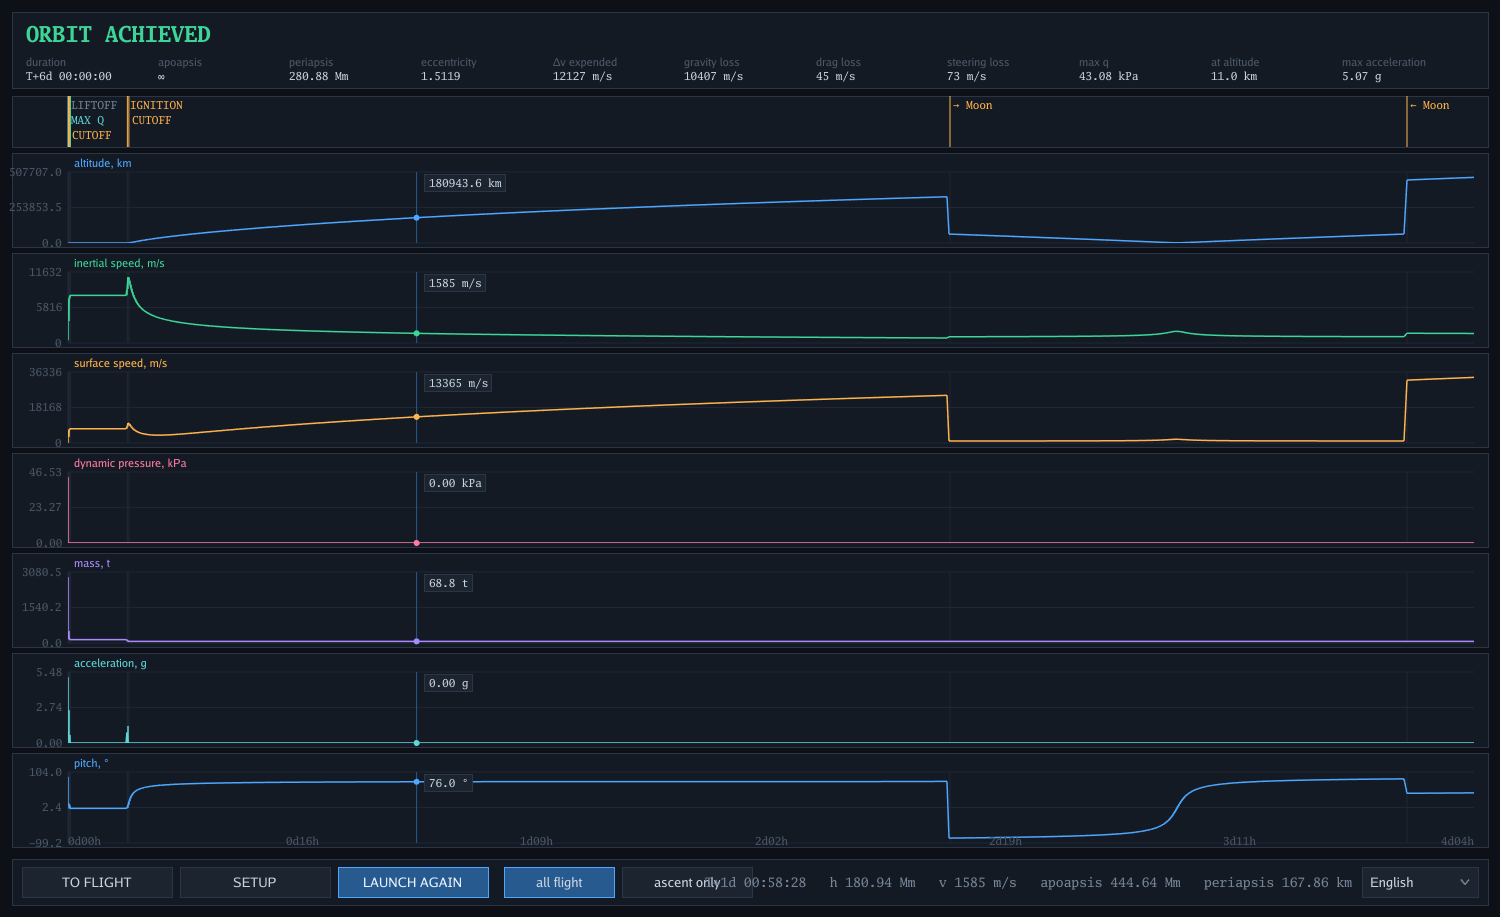
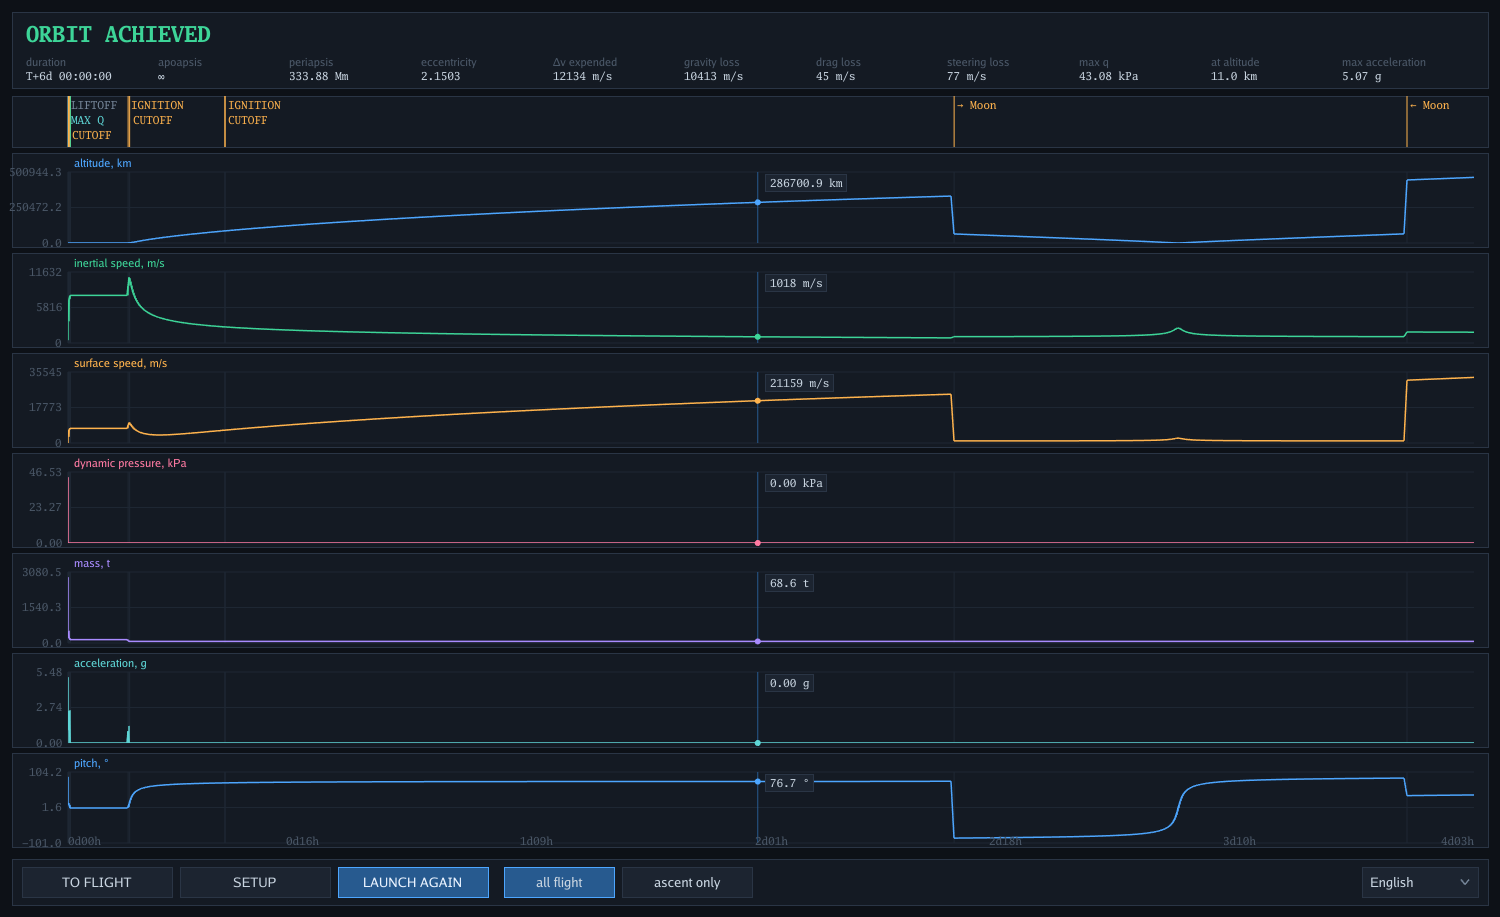
Refresh the README's screenshots, and stop the bars printing over themselves
The five images were from the first week of August and three of them show a
program that no longer exists: the mission list without the description
panel beside it and two rows short, and the flight screen with a plan that
has one burn in it and no way to add an aim. Regenerated: the list with a
mission open on it, max q on the Saturn V with both plan entries visible,
the flyby 200 km over the Moon with the periapsis reading 200.03 in the
panel, and the whole six days on the graph screen.

The captions were as stale as the pictures — "the flight plan holds one
burn" is no longer true of any preset that goes anywhere — so they say what
is in the frame now, including where the 200 km comes from.

And a layout fault the screenshots had been immortalising: both bottom bars
grow their buttons from the left and right-align their text against the
language picker, so at an ordinary window width the flight screen's key
hint printed straight through the GRAPHS button and the graph screen's
scrubber readout through "ascent only". Both now measure the gap and are
dropped when there is none, which is the right way round — a control that
has to be readable beats a hint that does not.

diff --git a/screen_graphs.go b/screen_graphs.go
@@ -525,6 +525,11 @@ func (g *GraphScreen) drawFooter(a *App, dst *ebiten.Image, r Rect) {
 
 	u.LangPicker(dst, Rect{r.Right() - 10 - langPickerW, by, langPickerW, bh})
 	infoRight := r.Right() - 20 - langPickerW
+	// Whatever is left between the last button and the language picker. Both of the things
+	// drawn here are right-aligned against the picker while the buttons grow from the left, so
+	// without this the scrubber's readout printed through the range buttons — which is what the
+	// screenshots of this screen had been showing.
+	room := infoRight - (r.X + 750)
 
 	if g.hover >= 0 && g.hover < len(g.s.Hist) {
 		sm := g.s.Hist[g.hover]
@@ -532,8 +537,10 @@ func (g *GraphScreen) drawFooter(a *App, dst *ebiten.Image, r Rect) {
 			fmtClock(sm.T), fmtEng(sm.Alt, T("unit.m")), speed(sm.Speed),
 			T("common.apoapsis"), altText(sm.ApoAlt),
 			T("common.periapsis"), altText(sm.PeriAlt))
-		drawText(dst, info, fontMono, infoRight, r.Y+(r.H-fontMono.Size)/2-1, colTextDim, alignRight)
-	} else {
+		if textWidth(info, fontMono) <= room {
+			drawText(dst, info, fontMono, infoRight, r.Y+(r.H-fontMono.Size)/2-1, colTextDim, alignRight)
+		}
+	} else if textWidth(T("graph.hint"), fontUISm) <= room {
 		drawText(dst, T("graph.hint"),
 			fontUISm, infoRight, r.Y+(r.H-fontUISm.Size)/2, colTextFaint, alignRight)
 	}

diff --git a/screen_flight.go b/screen_flight.go
@@ -1794,11 +1794,19 @@ func (f *FlightScreen) drawControls(a *App, dst *ebiten.Image, r Rect) {
 
 	u.LangPicker(dst, Rect{r.Right() - 10 - langPickerW, by, langPickerW, bh})
 
+	// The keyboard hint, in whatever room is left over — and dropped entirely when there is
+	// none. It is right-aligned against the language picker while the buttons grow from the
+	// left, so at a window width the two meet the hint used to print straight through the last
+	// button, which is how every screenshot of this bar came out. A hint nobody can read costs
+	// more than a hint nobody can see.
 	hint := T("flight.hint")
 	if len(f.s.Cfg.System.Bodies) > 1 {
 		hint = T("flight.hintBodies")
 	}
-	drawText(dst, hint, fontUISm, r.Right()-20-langPickerW, r.Y+(r.H-fontUISm.Size)/2, colTextFaint, alignRight)
+	right := r.Right() - 20 - langPickerW
+	if textWidth(hint, fontUISm) <= right-(x+150+10) {
+		drawText(dst, hint, fontUISm, right, r.Y+(r.H-fontUISm.Size)/2, colTextFaint, alignRight)
+	}
 }
 
 // warpLabel writes a warp factor the short way: ×1000 has no business taking

diff --git a/README.md b/README.md
@@ -19,7 +19,9 @@ a working simulator.
 ![The mission list](docs/presets.png)
 
 *Fifteen missions, and the identifier each one answers to — the same string `-preset` and `?preset=`
-take. Picking one opens the editor on it; naming one on the command line skips the list entirely.*
+take. Clicking one reads it: what the real mission was, what this one does here, and the figures worth
+knowing before flying it, all read off the configuration rather than flown. Clicking it again, or Enter,
+opens the editor on it; naming one on the command line skips the list entirely.*
 
 ![Setup screen](docs/setup.png)
 
@@ -79,10 +81,15 @@ launch achieved stays on the record even after the vehicle has left.
 
 ![Flight screen](docs/flight.png)
 
+*Max q on the Saturn V, with the flight plan open in the corner. It holds two entries: the translunar
+injection as a delta-v, and a control point below it that says where to pass the Moon — the side and the
+distance — for the simulation to solve when the moment comes.*
+
 ![The Moon in the camera](docs/lunar.png)
 
-*The flight plan holds one burn — the translunar injection — and the predicted path is drawn with it flown
-into it. The Moon's rail is the circle; the vehicle is the speck at the Earth.*
+*Three days later, 200 km over the Moon, which is where Apollo 11 passed. The trail behind is what was
+flown and the line ahead is the prediction; the periapsis in the panel reads 200.03 km because the pass is
+aimed rather than hoped for, and the correction that held it cost 7 m/s.*
 
 ## Presets
 
@@ -276,6 +283,10 @@ the ascent in the first two pixels — so the axis drags and zooms, and there is
 its own.
 
 ![Graphs](docs/graphs.png)
+
+*Six days of the Apollo flyby: the ascent is the spike at the left edge, the ruler above marks every event
+including the Moon's sphere of influence being entered and left, and each column of a trace is drawn as the
+range its samples covered — so a max-q spike between two pixels is still a spike.*
 
 ## Notes
 

diff --git a/CLAUDE.md b/CLAUDE.md
@@ -1342,6 +1342,12 @@ the time it was measured**.
   first.** Removing a stage shifts the ones above it down inside the same backing array, so a focused
   field would quietly commit its edit to a different stage. Same reason the preset buttons and the
   mixture picker cancel before replacing their slices.
+- **A hint that shares a bar with buttons is drawn only if it fits.** Both bottom bars grow their
+  buttons from the left and right-align their text against the language picker, so at a plain window
+  width the two meet — and text drawn on top of a button is worse than no text at all. The flight
+  screen's key hint and the graph screen's scrubber readout now measure the gap first and are dropped
+  when there is none, which is also why the screenshots in the README stopped having "GRAPHS" written
+  through them.
 - **Overlays paint onto `UI.Overlay`, not onto the `dst` they were handed.** The setup columns draw into
   a clipped sub-image, so a tooltip drawn into `dst` would be sliced off at the column edge.
 - **An unlabelled `NumField` has no label column.** It used to reserve the strip either way, which left
